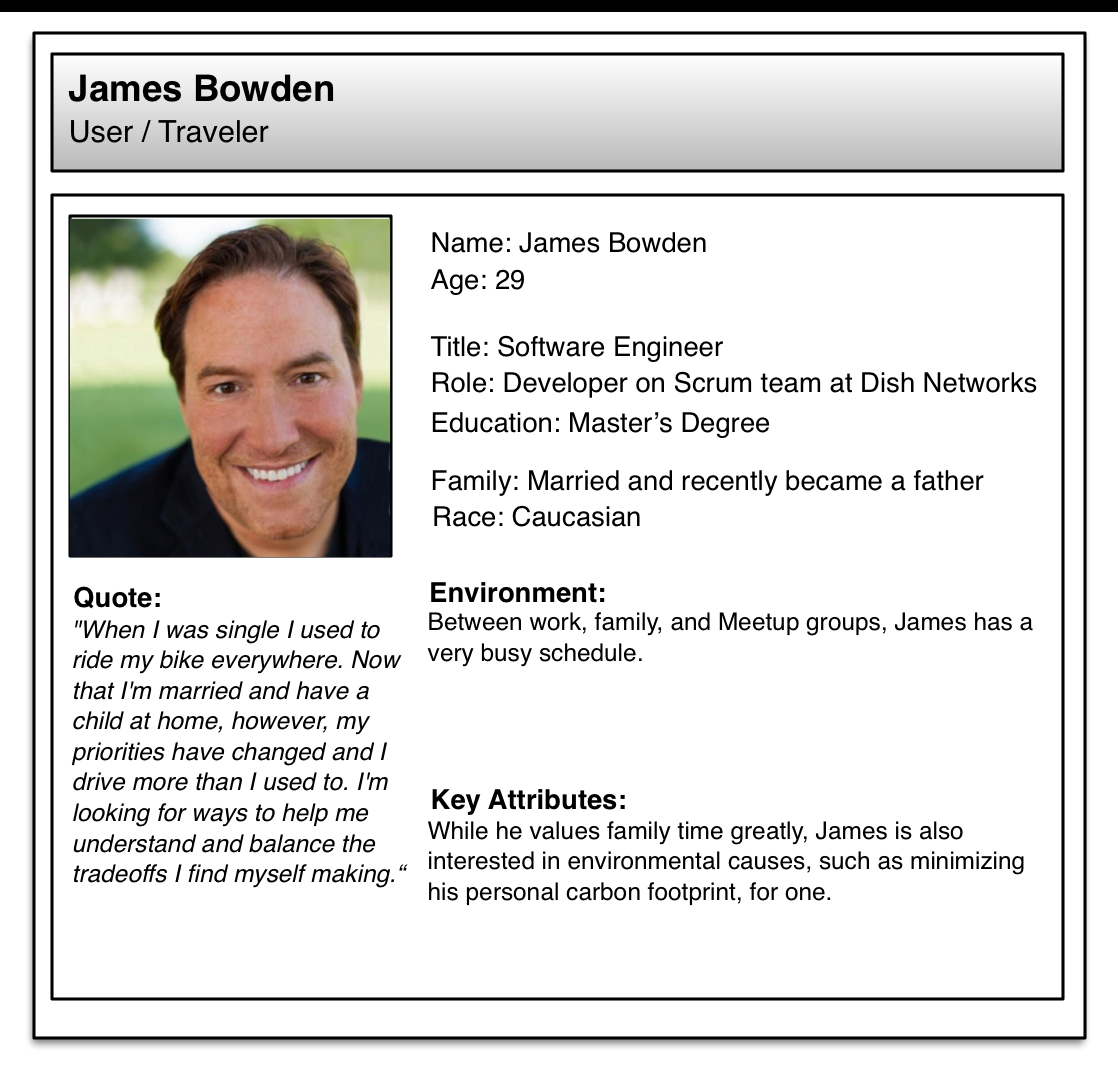
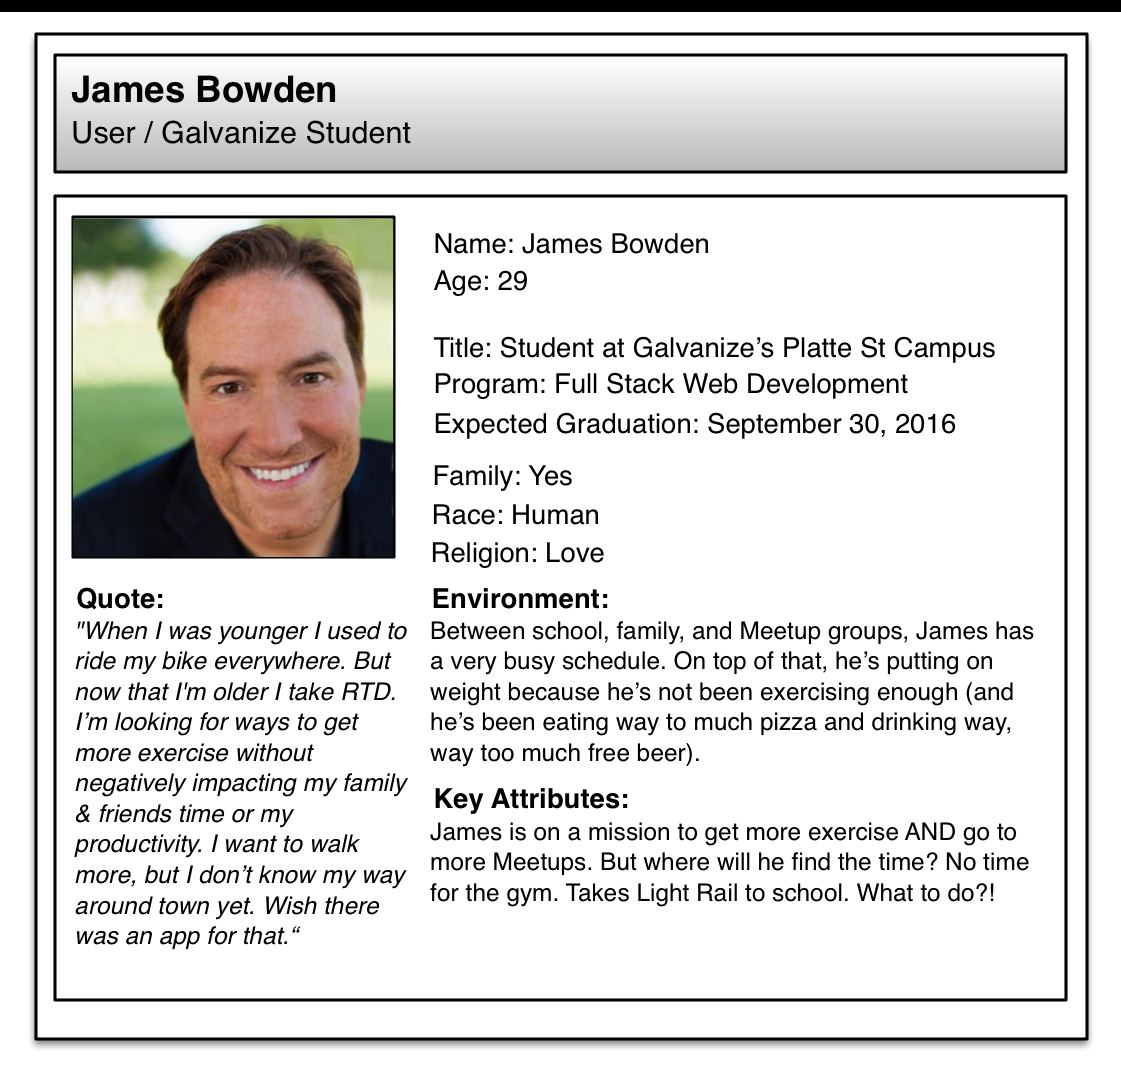
Edit README to reflect pivot. Change Persona.

Changed region(s): [[0.0304, 0.0308, 0.9732, 0.9851], [0.1825, 0.431, 0.3041, 0.5233]]

diff --git a/README.md b/README.md
@@ -2,20 +2,19 @@
 
 * This is our first personal project as part of the Galvanize Full Stack program.
 * The purpose is to give us a chance to practice some of the thing we've learned over our first four weeks, which introduced us to HTML, CSS, JavaScript, jQuery, APIs, design, UX, Bootstrap, and agile software development with Scrum.
-* The approved project proposal is below.
-* See the current state of the app at https://pp1-trip-planner.firebaseapp.com/
+* The app lives at https://pp1-trip-planner.firebaseapp.com/
 
 ## Project Proposal
 
-Travel app that helps people decide how to get from Point A to Point B.
+App to help new Galvanize students find their way to and from Meetups and other points of interest, get to know Denver, and get more exercise all at the same time.
 
 ### Who Uses It?
 
-Local and regional travelers.
+Galvanize students (especially new ones).
 
 ### What Outputs Do They Need?
 
-Travel options and key details, such as estimated time, distance, and cost.
+Directions from Point A to Point B.
 
 ### What Inputs Are Needed to Generate Those Outputs?
 
@@ -42,7 +41,7 @@ Valid starting point and ending point.
 
 ### Process
 
-* Agile software development with Scrum
+* Use agile software development with Scrum
 * Write User Stories for a Persona (see below)
 * Manage User Stories with [Pivotal Tracker](https://www.pivotaltracker.com/n/projects/1590193)
 * Practice a solid Git workflow (branches, etc.)
